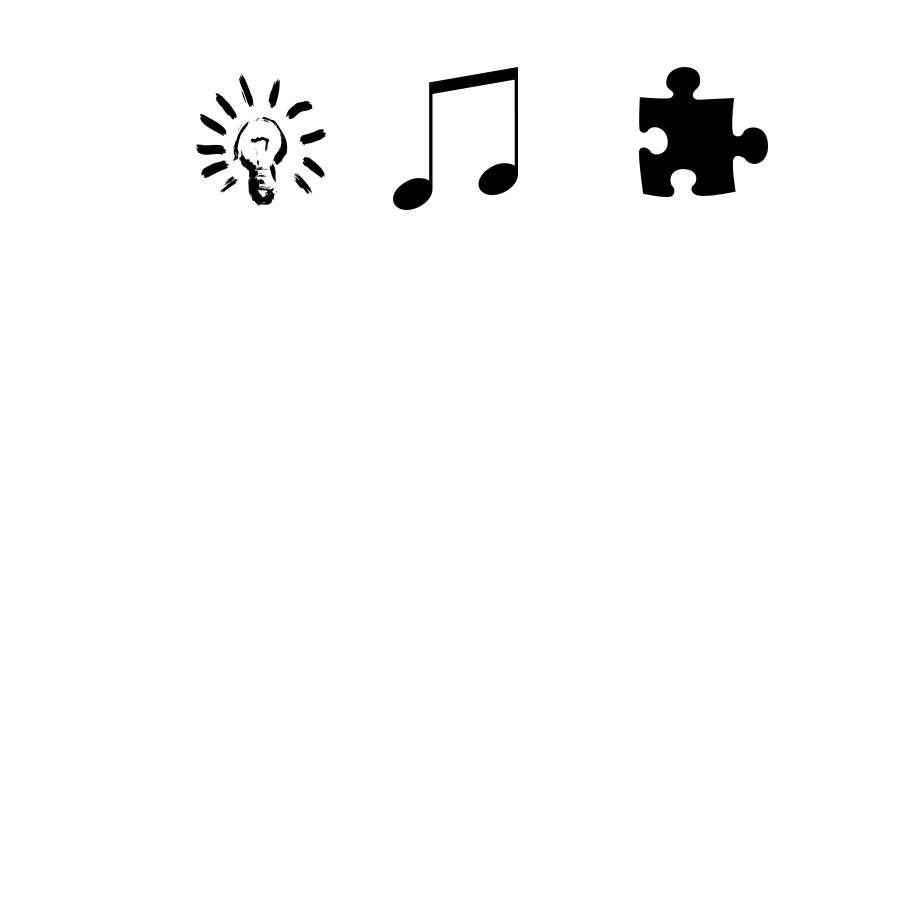
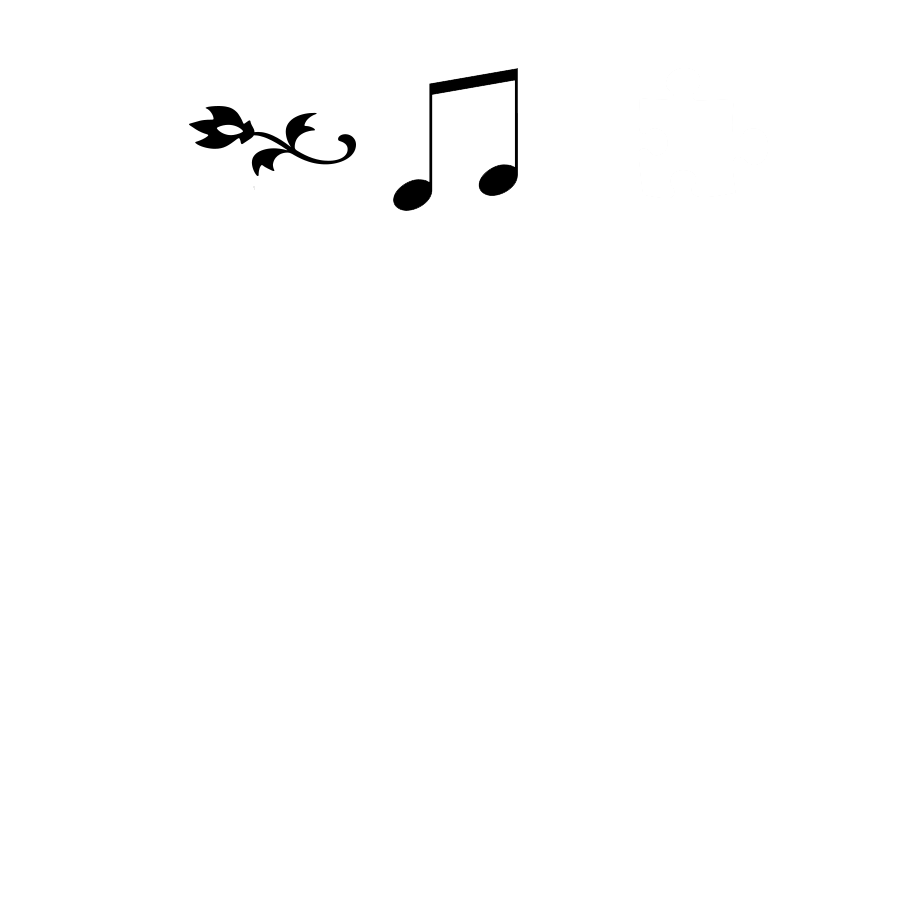
Cleaned up slider and visuals.

diff --git a/public/feeling_game/style.css b/public/feeling_game/style.css
@@ -182,13 +182,14 @@ button {
   position: relative;
   width: 300px;
   height: 25px;
-  margin: 250px auto;
+  margin: 250px 20px;
   background-color: #000000;
   border-radius: 0.5em;
   box-sizing: border-box;
   font-size: 22px;
   -ms-touch-action: none;
   touch-action: none;
+  display: inline-block;
 }
 
 /* the slider handle */
@@ -221,4 +222,74 @@ button {
   text-align: center;
   font-size: 14px;
   color: gray;
+}
+
+
+.img-left-1 {
+  background-image: url(../img/achieve.png);
+  background-position: top left;
+  background-size: 300px;
+  background-repeat: no-repeat;
+  width: 250px;
+  height: 100px;
+  position: absolute;
+  transform: translateY(200%);
+}
+
+.img-right-1 {
+  background-image: url(../img/social.png);
+  background-position: top left;
+  background-size: 300px;
+  background-repeat: no-repeat;
+  display: inline-block;
+  width: 250px;
+  height: 100px;
+  position: absolute;
+  transform: translateY(200%);
+}
+
+.img-left-2 {
+  background-image: url(../img/creativity.png);
+  background-position: top left;
+  background-size: 300px;
+  background-repeat: no-repeat;
+  width: 250px;
+  height: 100px;
+  position: absolute;
+  transform: translateY(200%);
+}
+
+.img-right-2 {
+  background-image: url(../img/logic.png);
+  background-position: top left;
+  background-size: 300px;
+  background-repeat: no-repeat;
+  display: inline-block;
+  width: 250px;
+  height: 100px;
+  position: absolute;
+  transform: translateY(200%);
+}
+
+.img-left-3 {
+  background-image: url(../img/patience.png);
+  background-position: top left;
+  background-size: 300px;
+  background-repeat: no-repeat;
+  width: 250px;
+  height: 100px;
+  position: absolute;
+  transform: translateY(200%);
+}
+
+.img-right-3 {
+  background-image: url(../img/woozy.png);
+  background-position: top left;
+  background-size: 300px;
+  background-repeat: no-repeat;
+  display: inline-block;
+  width: 250px;
+  height: 100px;
+  position: absolute;
+  transform: translateY(200%);
 }

diff --git a/public/feeling_game/index.html b/public/feeling_game/index.html
@@ -54,13 +54,26 @@
     <h1>How are you as a person?</h1>
 
     <div id="wrapper-slider">
-        <div class="one-slide-wrap">
-            
-
+        <div class="one-slide-wrap-1">
+            <div class="img-left-1"> Achieving</div>
+            <div class="slider"></div>
+            <div class="img-right-1"> Social</div>
         </div>
-        <div class="slider"></div>
-        <div class="slider"></div>
-        <div class="slider"></div>
+
+        <div class="one-slide-wrap-2">
+            <div class="img-left-2"> Creative</div>
+            <div class="slider"></div>
+            <div class="img-right-2"> Logical</div>
+        </div>
+        
+        <div class="one-slide-wrap-3">
+            <div class="img-left-3"> Patient</div>
+            <div class="slider"></div>
+            <div class="img-right-3"> Woozy</div>
+        </div>
+
+        <div class="message-slider" style="display:none"></div>
+
     </div>
     <button class="next" onclick="closeCurrentWindow()">Great job! Let's go back to the main page.</button>
 </div>

diff --git a/public/feeling_game/script.js b/public/feeling_game/script.js
@@ -173,8 +173,9 @@ interact('#dropzone-snail').dropzone({
       var sliderWidth = interact.getElementRect(event.target.parentNode).width,
           value = event.pageX / sliderWidth;
 
-      event.target.style.paddingLeft = (value * 100) + '%'; //Makes sure that it moves with the pointer
-      event.target.setAttribute('data-value', value.toFixed(2));
+      /* Padding for making sure that the pointer follows, giving it left padding. **/
+      event.target.style.paddingLeft = (value * 100) + '%'; 
+      event.target.setAttribute('data-value', value.toFixed(1));
     }
   });
 
